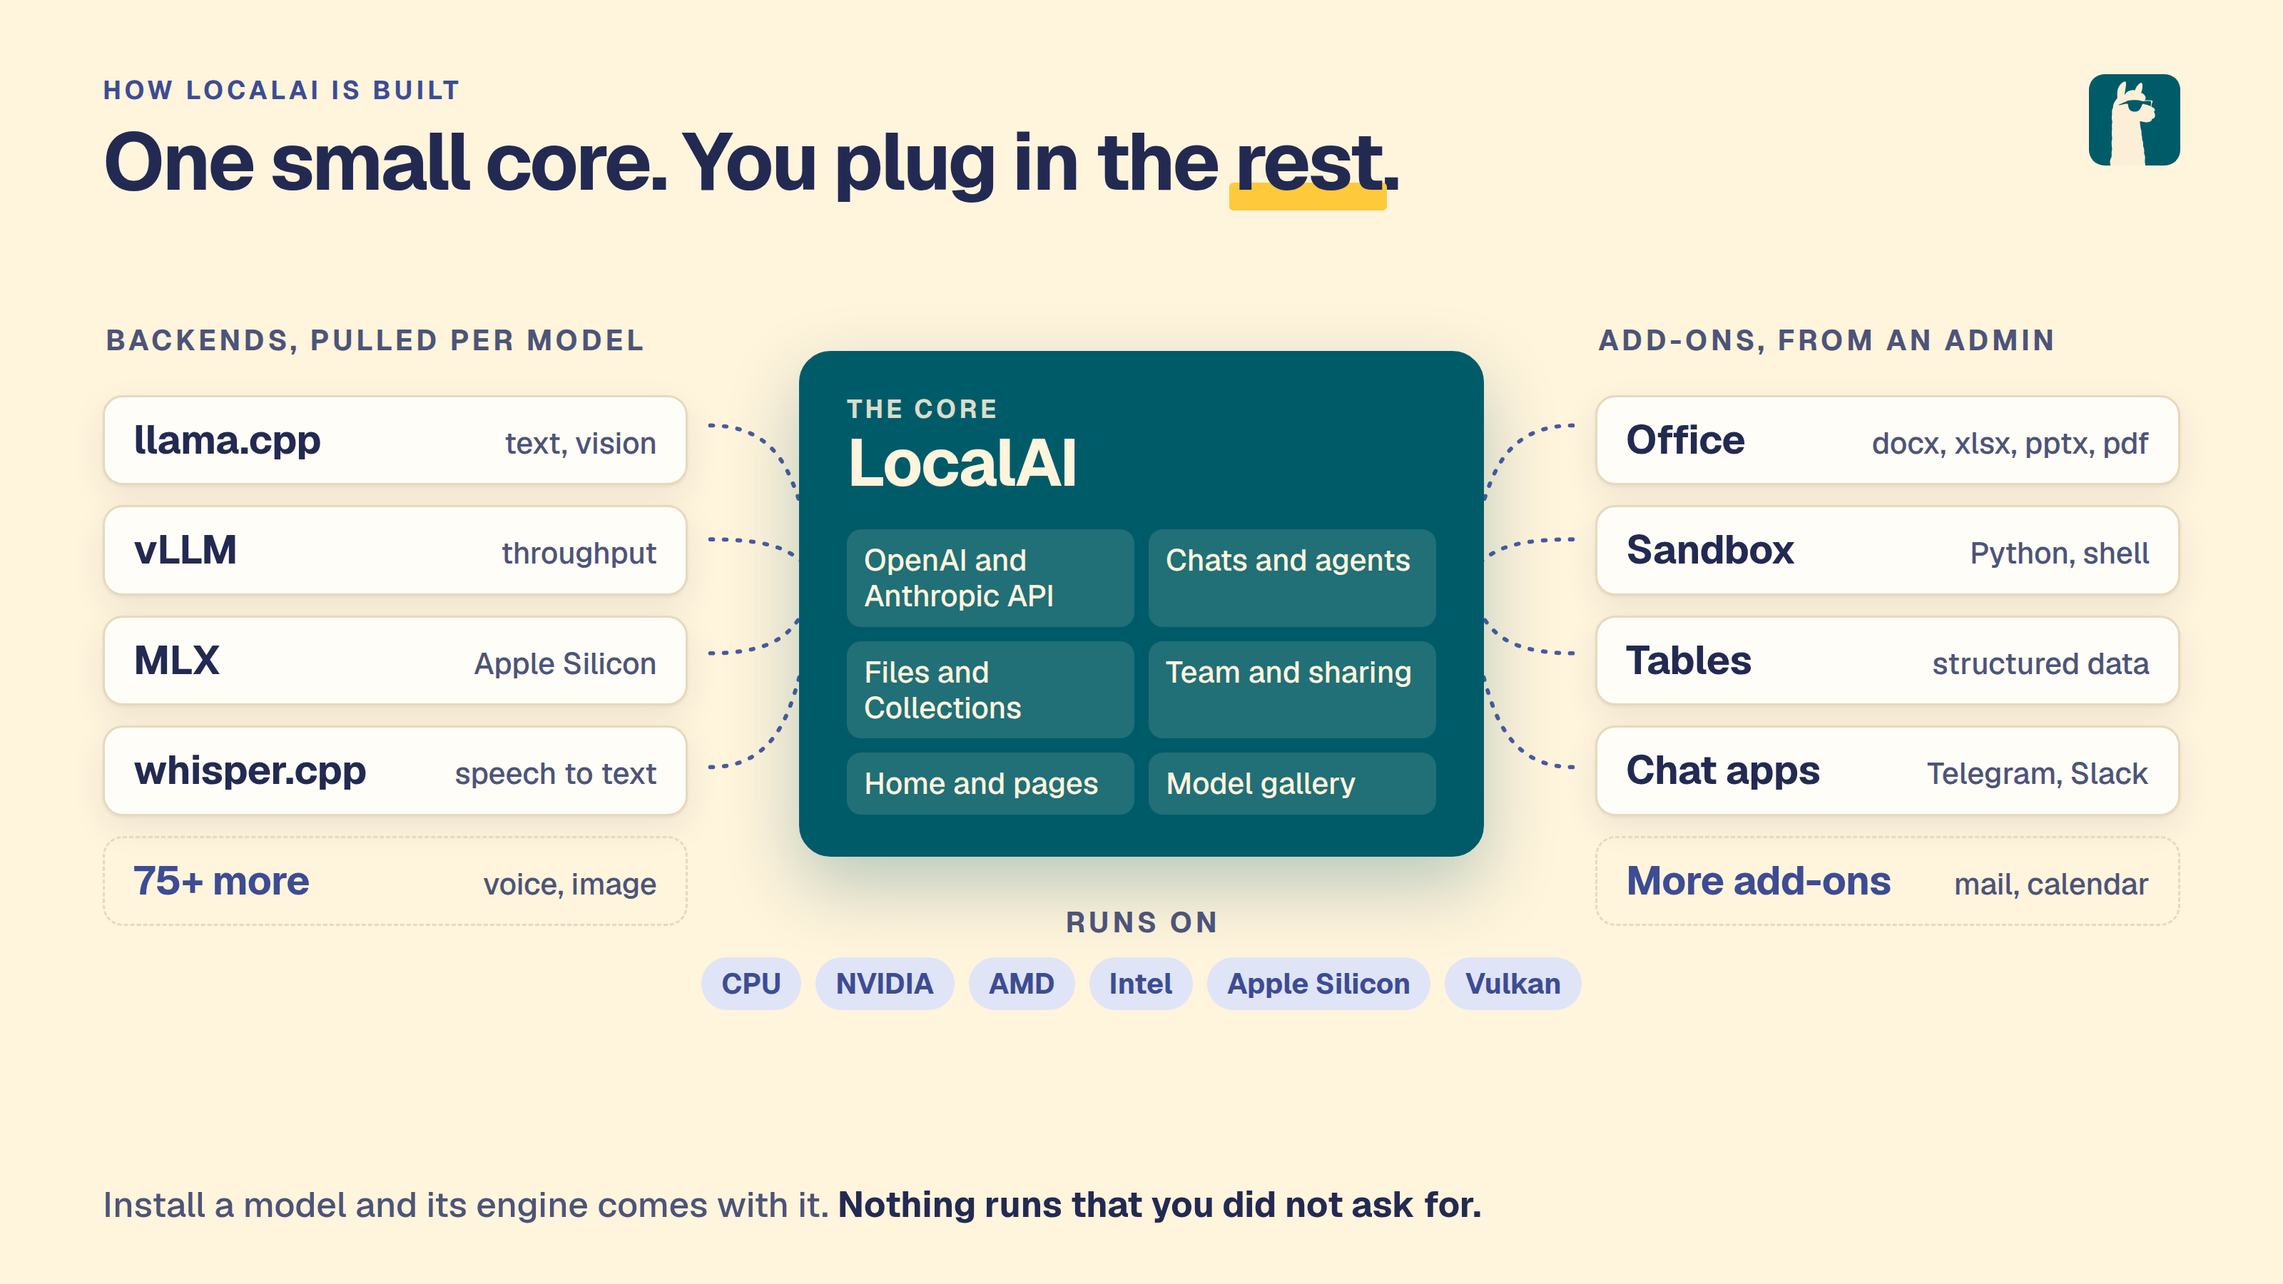
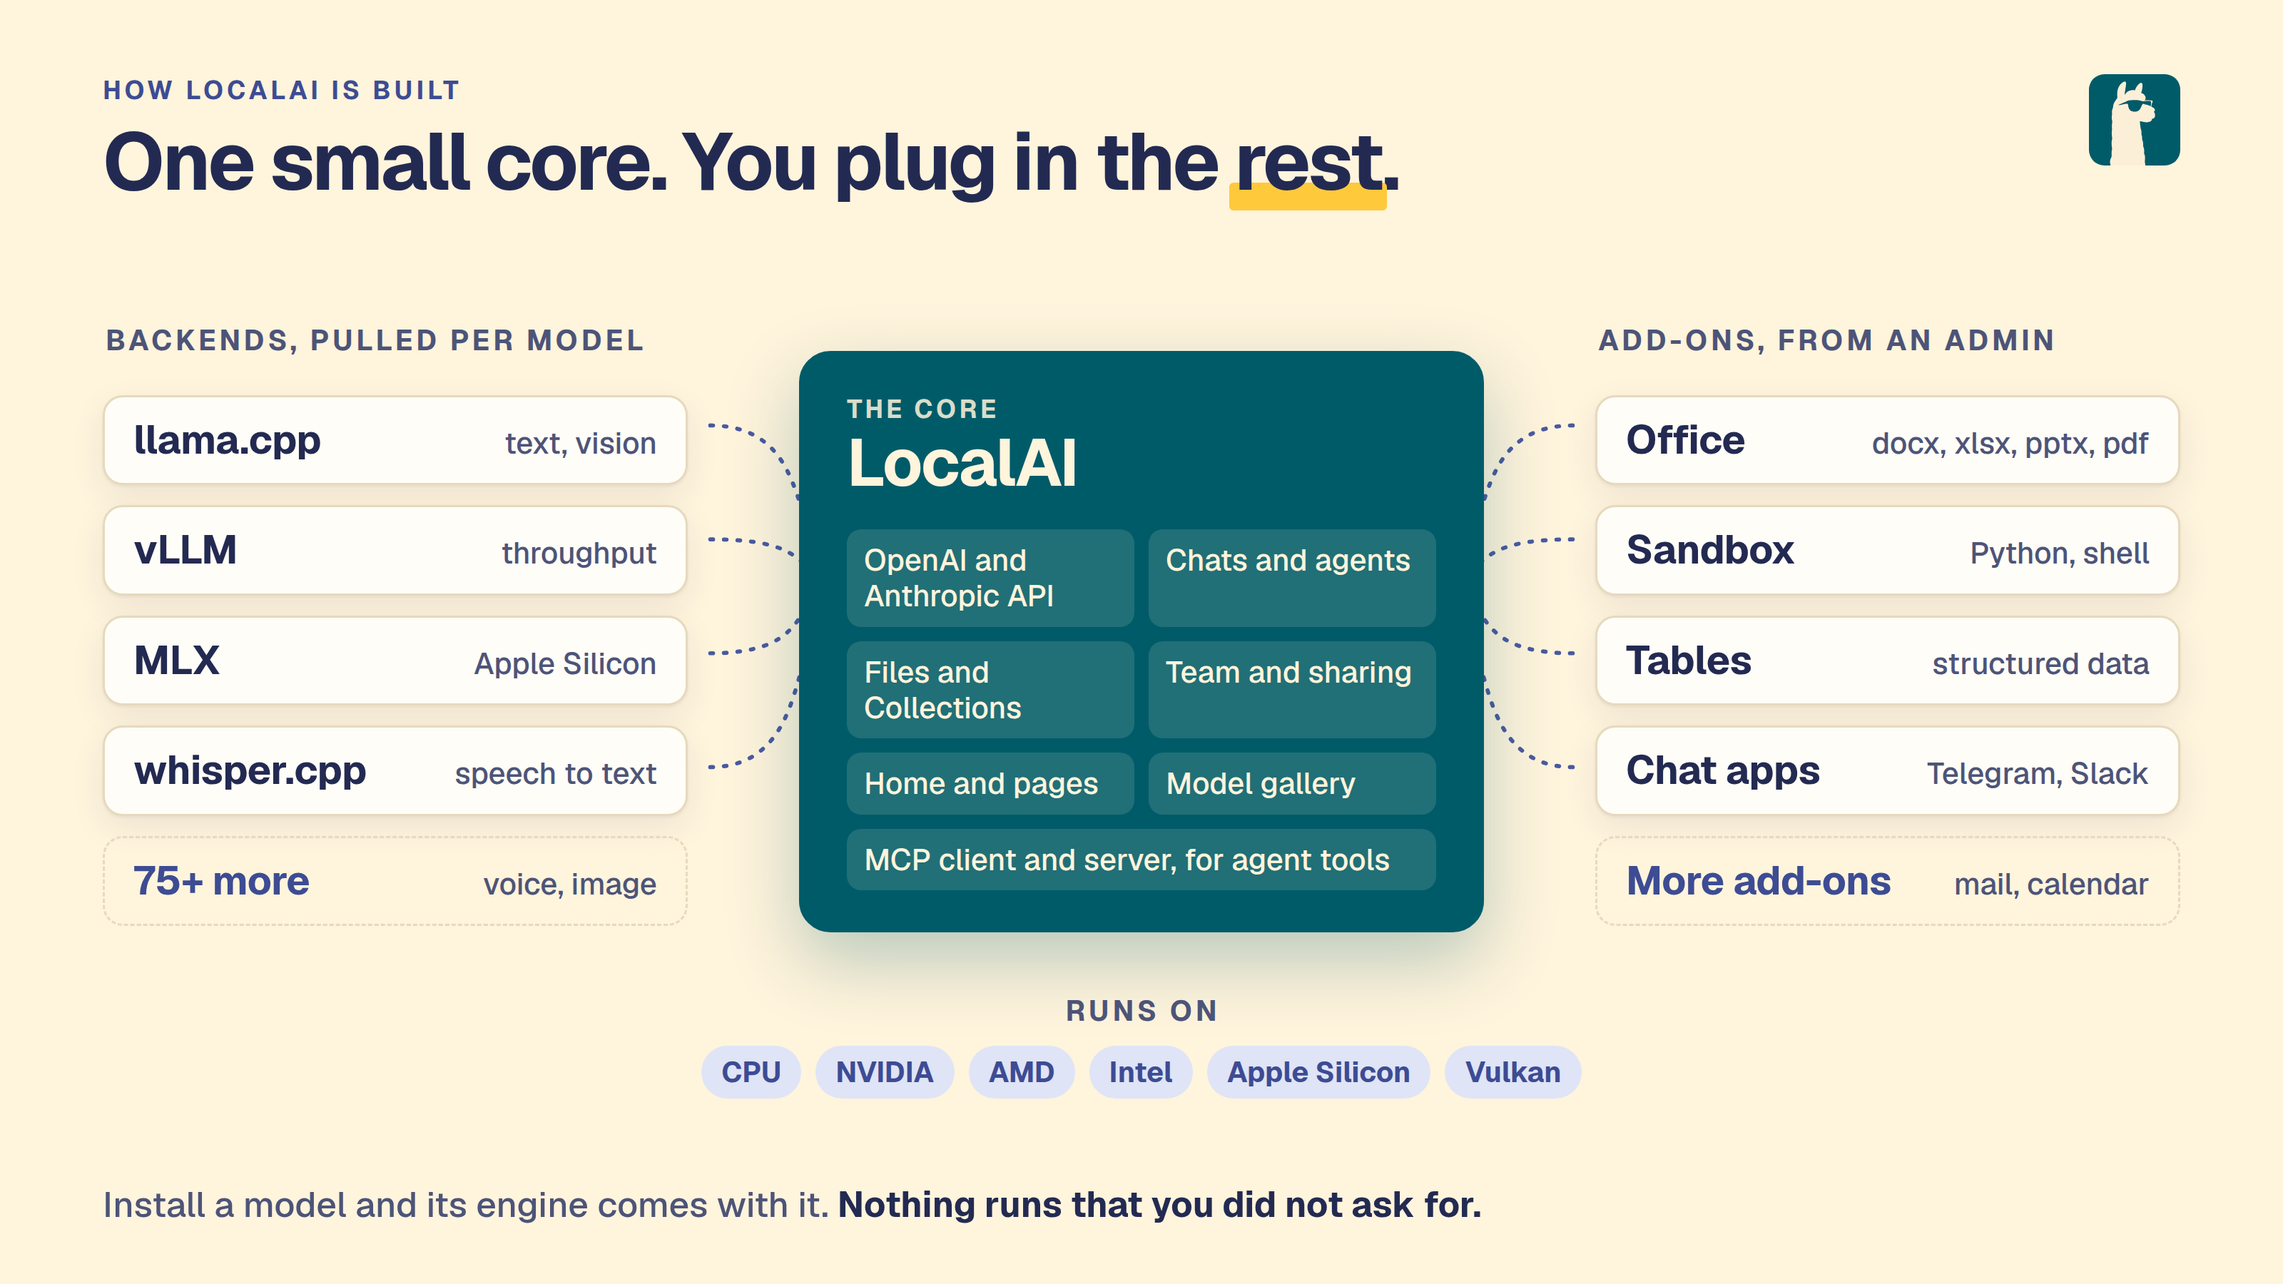
docs: show MCP in the 5.0 diagrams
The core and assistant pictures did not name MCP. Add an MCP client and
server cell to the core in the composable-core and architecture
diagrams, and MCP tools (built in) and Tables (add-on) to the assistant
story. The MCP diagram said the tool loop stops after 10 steps; that is
the API default, chats stop after 40. Extend the alt texts to match.

Assisted-by: Claude Code:claude-sonnet-5-5

Changed region(s): [[0.2812, 0.6222, 0.7188, 0.8711]]

diff --git a/docs/static/images/diagrams/assistant-story.html b/docs/static/images/diagrams/assistant-story.html
@@ -9,17 +9,19 @@
 <img class="mark" src="tile.svg" alt="">
 <div class="stage c">
 
-<div class="grid" style="grid-template-columns:1fr 56px 1.05fr 56px 1fr;grid-template-rows:repeat(3,auto);row-gap:14px;align-items:center">
- <div style="grid-row:1;grid-column:1"><div class="node" style="padding:12px 18px"><div class="row" style="justify-content:space-between"><b style="font-size:30px">Files</b><em class="pill" style="font-style:normal;font-size:19px;padding:4px 12px">built in</em></div><span style="font-size:22px">yours, shared by folder</span></div></div><div class="ar" style="grid-row:1;grid-column:2;width:50px;justify-self:center"></div>
- <div style="grid-row:2;grid-column:1"><div class="node" style="padding:12px 18px"><div class="row" style="justify-content:space-between"><b style="font-size:30px">Collections</b><em class="pill" style="font-style:normal;font-size:19px;padding:4px 12px">built in</em></div><span style="font-size:22px">search your documents</span></div></div><div class="ar" style="grid-row:2;grid-column:2;width:50px;justify-self:center"></div>
- <div style="grid-row:3;grid-column:1"><div class="node" style="padding:12px 18px"><div class="row" style="justify-content:space-between"><b style="font-size:30px">Team</b><em class="pill" style="font-style:normal;font-size:19px;padding:4px 12px">built in</em></div><span style="font-size:22px">users, roles, sharing</span></div></div><div class="ar" style="grid-row:3;grid-column:2;width:50px;justify-self:center"></div>
- <div class="node core cen" style="grid-row:1 / span 3;grid-column:3;padding:40px 24px"><b style="font-size:46px">Your assistant</b><span style="font-size:25px;margin-top:10px">Chats and saved agents that use tools, files and skills</span></div>
- <div class="ar back" style="grid-row:1;grid-column:4;width:50px;justify-self:center"></div><div style="grid-row:1;grid-column:5"><div class="node" style="padding:12px 18px"><div class="row" style="justify-content:space-between"><b style="font-size:30px">Sandbox</b><em class="pill" style="font-style:normal;font-size:19px;padding:4px 12px">add-on</em></div><span style="font-size:22px">run Python and shell, isolated</span></div></div>
- <div class="ar back" style="grid-row:2;grid-column:4;width:50px;justify-self:center"></div><div style="grid-row:2;grid-column:5"><div class="node" style="padding:12px 18px"><div class="row" style="justify-content:space-between"><b style="font-size:30px">Office</b><em class="pill" style="font-style:normal;font-size:19px;padding:4px 12px">add-on</em></div><span style="font-size:22px">write Word, Excel, PowerPoint, PDF</span></div></div>
- <div class="ar back" style="grid-row:3;grid-column:4;width:50px;justify-self:center"></div><div style="grid-row:3;grid-column:5"><div class="node" style="padding:12px 18px"><div class="row" style="justify-content:space-between"><b style="font-size:30px">Chat apps</b><em class="pill" style="font-style:normal;font-size:19px;padding:4px 12px">add-on</em></div><span style="font-size:22px">Telegram, Slack, Discord</span></div></div>
+<div class="grid" style="grid-template-columns:1fr 56px 1.05fr 56px 1fr;grid-template-rows:repeat(4,auto);row-gap:8px;align-items:center">
+ <div style="grid-row:1;grid-column:1"><div class="node" style="padding:8px 18px"><div class="row" style="justify-content:space-between"><b style="font-size:30px">Files</b><em class="pill" style="font-style:normal;font-size:19px;padding:4px 12px">built in</em></div><span style="font-size:22px">yours, shared by folder</span></div></div><div class="ar" style="grid-row:1;grid-column:2;width:50px;justify-self:center"></div>
+ <div style="grid-row:2;grid-column:1"><div class="node" style="padding:8px 18px"><div class="row" style="justify-content:space-between"><b style="font-size:30px">Collections</b><em class="pill" style="font-style:normal;font-size:19px;padding:4px 12px">built in</em></div><span style="font-size:22px">search your documents</span></div></div><div class="ar" style="grid-row:2;grid-column:2;width:50px;justify-self:center"></div>
+ <div style="grid-row:3;grid-column:1"><div class="node" style="padding:8px 18px"><div class="row" style="justify-content:space-between"><b style="font-size:30px">Team</b><em class="pill" style="font-style:normal;font-size:19px;padding:4px 12px">built in</em></div><span style="font-size:22px">users, roles, sharing</span></div></div><div class="ar" style="grid-row:3;grid-column:2;width:50px;justify-self:center"></div>
+ <div class="node core cen" style="grid-row:1 / span 4;grid-column:3;padding:40px 24px"><b style="font-size:46px">Your assistant</b><span style="font-size:25px;margin-top:10px">Chats and saved agents that use tools, files and skills</span></div>
+ <div class="ar back" style="grid-row:1;grid-column:4;width:50px;justify-self:center"></div><div style="grid-row:1;grid-column:5"><div class="node" style="padding:8px 18px"><div class="row" style="justify-content:space-between"><b style="font-size:30px">Sandbox</b><em class="pill" style="font-style:normal;font-size:19px;padding:4px 12px">add-on</em></div><span style="font-size:22px">run Python and shell, isolated</span></div></div>
+ <div class="ar back" style="grid-row:2;grid-column:4;width:50px;justify-self:center"></div><div style="grid-row:2;grid-column:5"><div class="node" style="padding:8px 18px"><div class="row" style="justify-content:space-between"><b style="font-size:30px">Office</b><em class="pill" style="font-style:normal;font-size:19px;padding:4px 12px">add-on</em></div><span style="font-size:22px">write Word, Excel, PowerPoint, PDF</span></div></div>
+ <div class="ar back" style="grid-row:3;grid-column:4;width:50px;justify-self:center"></div><div style="grid-row:3;grid-column:5"><div class="node" style="padding:8px 18px"><div class="row" style="justify-content:space-between"><b style="font-size:30px">Chat apps</b><em class="pill" style="font-style:normal;font-size:19px;padding:4px 12px">add-on</em></div><span style="font-size:22px">Telegram, Slack, Discord</span></div></div>
+<div style="grid-row:4;grid-column:1"><div class="node" style="padding:8px 18px"><div class="row" style="justify-content:space-between"><b style="font-size:30px">MCP tools</b><em class="pill" style="font-style:normal;font-size:19px;padding:4px 12px">built in</em></div><span style="font-size:22px">your own MCP servers</span></div></div><div class="ar" style="grid-row:4;grid-column:2;width:50px;justify-self:center"></div>
+ <div class="ar back" style="grid-row:4;grid-column:4;width:50px;justify-self:center"></div><div style="grid-row:4;grid-column:5"><div class="node" style="padding:8px 18px"><div class="row" style="justify-content:space-between"><b style="font-size:30px">Tables</b><em class="pill" style="font-style:normal;font-size:19px;padding:4px 12px">add-on</em></div><span style="font-size:22px">structured data</span></div></div>
 </div>
-<div class="row" style="justify-content:center"><div class="ar v" style="height:36px"></div></div>
-<div class="panel" style="padding:16px 22px 20px"><h3>Under it, models and backends you choose</h3>
+<div class="row" style="justify-content:center"><div class="ar v" style="height:22px"></div></div>
+<div class="panel" style="padding:12px 22px 14px"><h3>Under it, models and backends you choose</h3>
  <div class="row" style="gap:16px;align-items:stretch"><div class="node fl" style=""><b>Models</b><span>gallery, Hugging Face, OCI</span></div><div class="node fl" style=""><b>Backends</b><span>llama.cpp, vLLM, MLX, 75+ more</span></div><div class="node fl" style=""><b>Your hardware</b><span>CPU, NVIDIA, AMD, Intel, Apple Silicon</span></div></div></div>
 
 </div>

diff --git a/docs/static/images/diagrams/composable-core.html b/docs/static/images/diagrams/composable-core.html
@@ -10,7 +10,7 @@
 .core .t b { font-size: 46px; letter-spacing: -.02em; }
 .core ul { list-style: none; padding: 0; margin: 20px 0 0; display: grid; grid-template-columns: 1fr 1fr; gap: 10px; }
 .core li { font-size: 21px; background: rgb(255 244 220 / .13); border-radius: 10px; padding: 9px 12px; line-height: 1.2; }
-.hw { position: absolute; left: 50%; transform: translateX(-50%); top: 408px; width: 760px; text-align: center; }
+.hw { position: absolute; left: 50%; transform: translateX(-50%); top: 470px; width: 760px; text-align: center; }
 .hw .chips { display: flex; flex-wrap: wrap; justify-content: center; gap: 10px; margin-top: 10px; }
 .col3 .node b { font-size: 28px; } .col3 .node span { font-size: 21px; }
 .hw .pill { font-size: 20px; padding: 6px 14px; }
@@ -35,7 +35,7 @@
   </div>
   <div class="node core">
     <div class="t"><small>The core</small><b>LocalAI</b></div>
-    <ul><li>OpenAI and Anthropic API</li><li>Chats and agents</li><li>Files and Collections</li><li>Team and sharing</li><li>Home and pages</li><li>Model gallery</li></ul>
+    <ul><li>OpenAI and Anthropic API</li><li>Chats and agents</li><li>Files and Collections</li><li>Team and sharing</li><li>Home and pages</li><li>Model gallery</li><li style="grid-column:1/-1">MCP client and server, for agent tools</li></ul>
   </div>
   <div class="hw"><div class="lab">Runs on</div><div class="chips"><span class="pill">CPU</span><span class="pill">NVIDIA</span><span class="pill">AMD</span><span class="pill">Intel</span><span class="pill">Apple Silicon</span><span class="pill">Vulkan</span></div></div>
   <div class="col3 r"><div class="lab">Add-ons, from an admin</div>

diff --git a/docs/static/images/diagrams/architecture-overview.html b/docs/static/images/diagrams/architecture-overview.html
@@ -21,7 +21,7 @@
   <div class="abs" style="left:372px;top:230px;width:76px"><div class="ar" data-l="HTTP" style="width:76px"></div></div>
   <div class="pane" style="left:460px;width:470px"><div class="lab">The core</div>
     <div class="node core"><b>LocalAI</b><span>one process, written in Go</span>
-      <ul><li>API, auth and quotas</li><li>Model configs and gallery</li><li>Chats, agents and files</li><li>Add-on host</li></ul></div></div>
+      <ul><li>API, auth and quotas</li><li>Model configs and gallery</li><li>Chats, agents and files</li><li>Add-on host</li><li>MCP client and server</li></ul></div></div>
   <div class="abs" style="left:942px;top:230px;width:80px"><div class="ar" data-l="gRPC" style="width:76px"></div></div>
   <div class="pane" style="left:1030px;width:426px"><div class="lab">Backends, one per model</div><div class="col">
     <div class="node rowline"><b>llama.cpp</b><span>text, vision</span></div>

diff --git a/docs/static/images/diagrams/mcp-server-vs-client.html b/docs/static/images/diagrams/mcp-server-vs-client.html
@@ -17,7 +17,7 @@
     <div class="row">
       <div class="node" style="width:290px"><b>Your client</b><span>chat or API call</span></div>
       <div class="ar" style="width:70px"></div>
-      <div class="node core fl"><b>LocalAI runs the loop</b><span>model, tool call, tool result, model again</span><span style="margin-top:8px">Stops after <span class="code" style="display:inline;color:inherit">agent.max_iterations</span> steps, 10 by default</span></div>
+      <div class="node core fl"><b>LocalAI runs the loop</b><span>model, tool call, tool result, model again</span><span style="margin-top:8px">Stops after <span class="code" style="display:inline;color:inherit">agent.max_iterations</span> steps<br>(10 on the API, 40 in chats)</span></div>
       <div class="ar" style="width:70px"></div>
       <div class="node" style="width:290px"><b>MCP servers</b><span>HTTP or stdio</span></div>
     </div></div>

diff --git a/README.md b/README.md
@@ -24,7 +24,7 @@
 - **Every kind of model, one API**: text, vision, voice, images, video and embeddings, in the OpenAI, Anthropic and ElevenLabs formats, with more than 80 backends. Each backend is its own image, pulled only when a model needs it.
 - **Your hardware**: NVIDIA, AMD, Intel, Apple Silicon, Vulkan, NVIDIA Jetson or CPU only. The server, the models and your files stay on your own machines.
 
-![LocalAI is a small core with an API, chats and agents, files, collections, team sharing and a model gallery. Backends such as llama.cpp, vLLM, MLX and whisper.cpp plug in on one side, add-ons such as Office, Sandbox, Tables and chat apps on the other. It runs on CPU, NVIDIA, AMD, Intel, Apple Silicon and Vulkan.](docs/static/images/diagrams/composable-core.png)
+![LocalAI is a small core with an API, chats and agents, files, collections, team sharing, a model gallery and an MCP client and server for agent tools. Backends such as llama.cpp, vLLM, MLX and whisper.cpp plug in on one side, add-ons such as Office, Sandbox, Tables and chat apps on the other. It runs on CPU, NVIDIA, AMD, Intel, Apple Silicon and Vulkan.](docs/static/images/diagrams/composable-core.png)
 
 Created by [Ettore Di Giacinto](https://github.com/mudler) and maintained by the [LocalAI team](#team).
 

diff --git a/docs/content/concepts/architecture.md b/docs/content/concepts/architecture.md
@@ -11,7 +11,7 @@ LocalAI is an API written in Go. It follows the OpenAI API, so software that use
 
 LocalAI uses a mixture of backends written in various languages (C++, Golang, Python, ...). You can check [the model compatibility table]({{%relref "/models/compatibility-table" %}}) to learn about all the components of LocalAI.
 
-{{< diagram "architecture-overview" "How LocalAI works: clients call one API on a small core, which talks over gRPC to a separate backend process for each model, running on your own hardware." >}}
+{{< diagram "architecture-overview" "How LocalAI works: clients call one API on a small core with chats, agents, an add-on host and an MCP client and server, which talks over gRPC to a separate backend process for each model, running on your own hardware." >}}
 
 {{< diagram "request-flow" "How a request flows: the client calls the API, the model config picks a backend, the backend process runs the model over gRPC on your hardware, and tokens stream back." >}}
 

diff --git a/docs/content/start/whats-new.md b/docs/content/start/whats-new.md
@@ -16,7 +16,7 @@ This page lists the main capabilities of LocalAI 5.0. Each one has a tag.
 | **Add-on** | Comes from the add-on library. An administrator installs it. In the current development builds, the add-ons are in the development channel of the library, so they can change. |
 | **Admin on** | Built in, but on a server with accounts an administrator must switch it on for each user. With authentication off, you are the administrator and it is on. |
 
-{{< diagram "assistant-story" "Your assistant sits in the middle, with Files, Collections and Team built in and Sandbox, Office and chat apps as add-ons. Models, backends and your own hardware are underneath." >}}
+{{< diagram "assistant-story" "Your assistant sits in the middle, with Files, Collections, Team and MCP tools built in and Sandbox, Office, Tables and chat apps as add-ons. Models, backends and your own hardware are underneath." >}}
 
 ## The ten capabilities
 

diff --git a/docs/content/start/overview.md b/docs/content/start/overview.md
@@ -13,7 +13,7 @@ aliases = ["/overview/"]
 
 LocalAI is an AI server that runs on your own hardware. A small core speaks the OpenAI and Anthropic APIs. Each model backend is added only when you need it. Many existing clients work with it.
 
-{{< diagram "architecture-overview" "How LocalAI works: clients call one API on a small core, which talks over gRPC to a separate backend process for each model, running on your own hardware." >}}
+{{< diagram "architecture-overview" "How LocalAI works: clients call one API on a small core with chats, agents, an add-on host and an MCP client and server, which talks over gRPC to a separate backend process for each model, running on your own hardware." >}}
 
 ## Why LocalAI
 

diff --git a/docs/content/features/chats-and-agents/mcp.md b/docs/content/features/chats-and-agents/mcp.md
@@ -8,7 +8,7 @@ tags = ["MCP", "Agents", "Tools", "Advanced"]
 categories = ["Features"]
 +++
 
-{{< diagram "mcp-server-vs-client" "Server-side vs client-side MCP: the model's tool loop runs on the server or in the browser" >}}
+{{< diagram "mcp-server-vs-client" "Server-side vs client-side MCP: the model's tool loop runs on the server, which stops after agent.max_iterations steps, or an add-on page holds an MCP client in the browser behind the CORS proxy" >}}
 
 
 LocalAI supports the **Model Context Protocol (MCP)**. MCP connects models to external tools and services. Your models can use MCP servers to get live data, call APIs and use specialised tools.
